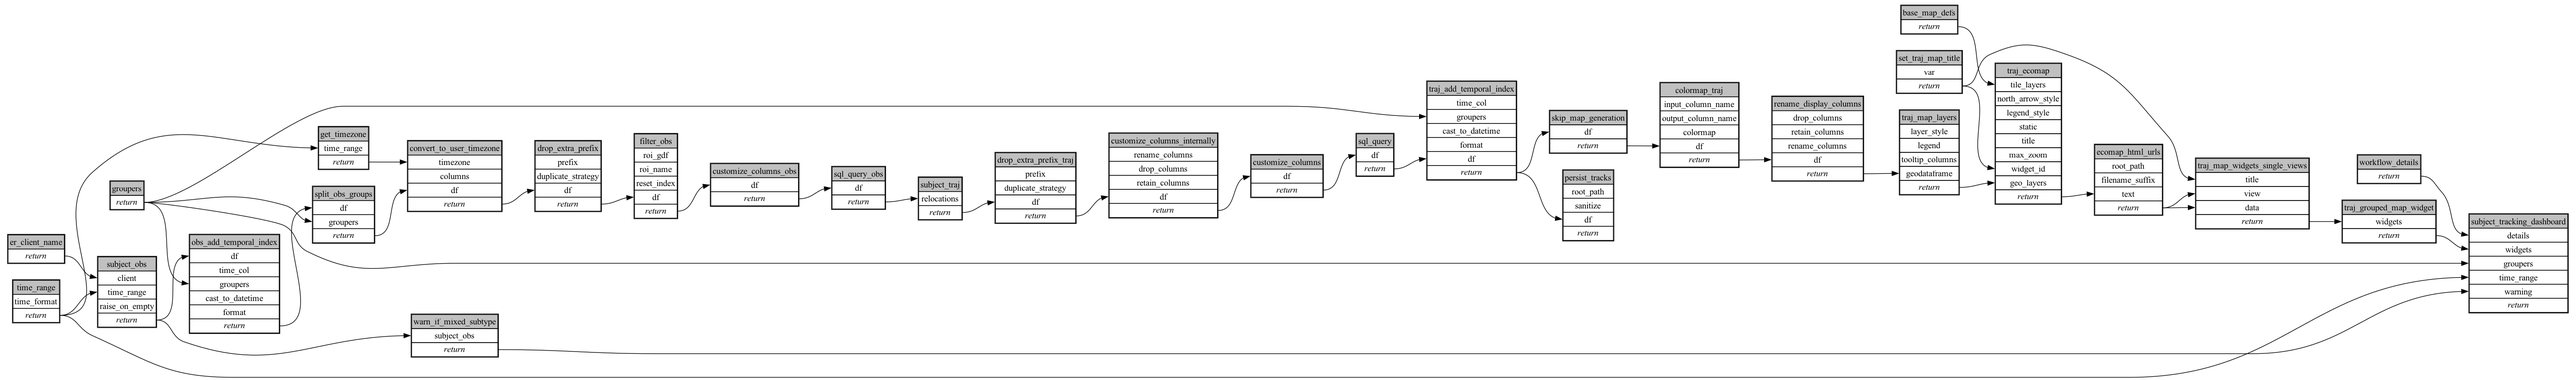
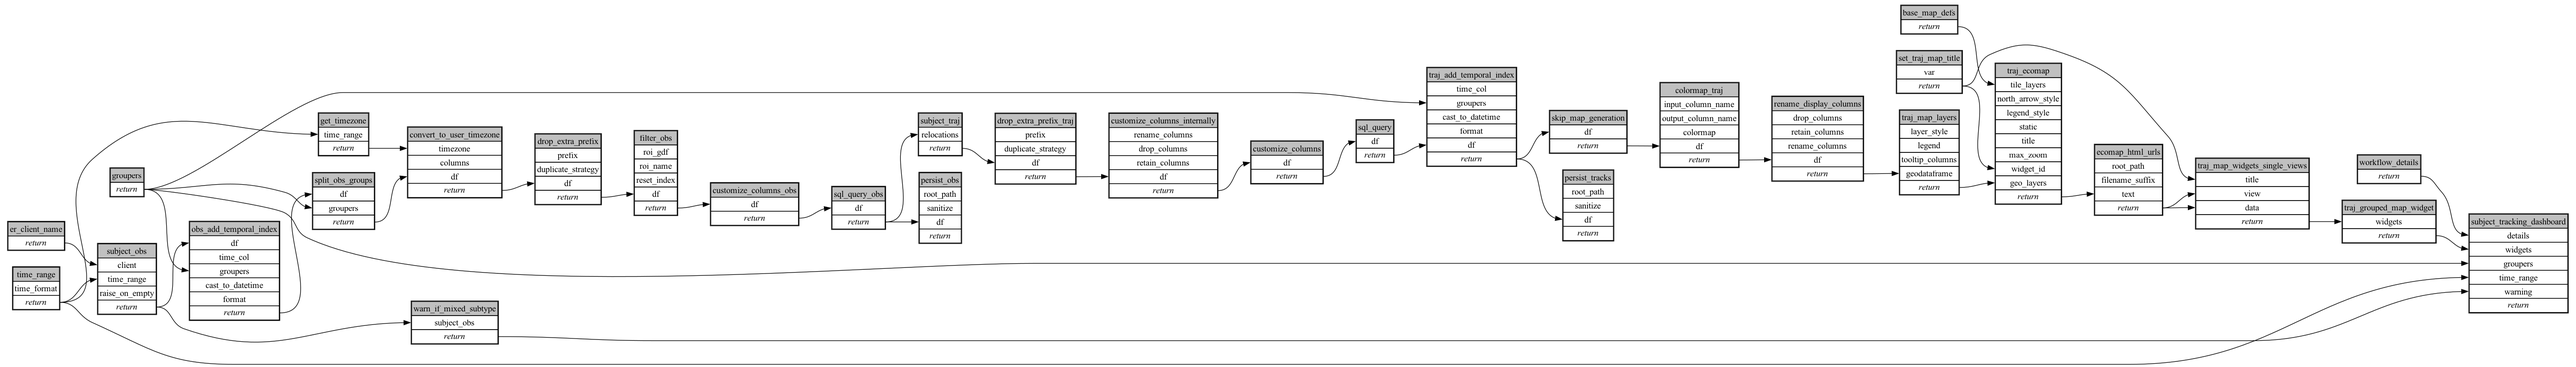
persist relocs

diff --git a/ecoscope-workflows-download-subjects-workflow/ecoscope_workflows_download_subjects_workflow/formdata.py b/ecoscope-workflows-download-subjects-workflow/ecoscope_workflows_download_subjects_workflow/formdata.py
@@ -59,6 +59,26 @@ class SqlQueryObs(BaseModel):
     )
 
 
+class Filetype(str, Enum):
+    csv = "csv"
+    gpkg = "gpkg"
+    geoparquet = "geoparquet"
+
+
+class PersistObs(BaseModel):
+    model_config = ConfigDict(
+        extra="forbid",
+    )
+    filetypes: Optional[List[Filetype]] = Field(
+        ["csv"], description="The output format", title="Filetypes"
+    )
+    filename_prefix: Optional[str] = Field(
+        "subject_observations",
+        description="            Optional filename prefix to persist text to within the `root_path`.\n            We will always add a suffix based on the dataframe content hash to avoid duplicates.\n            ",
+        title="Filename Prefix",
+    )
+
+
 class SqlQuery(BaseModel):
     model_config = ConfigDict(
         extra="forbid",
@@ -73,12 +93,6 @@ class SqlQuery(BaseModel):
         description="Optional list of column names to include in the SQL query context. If specified, only these columns will be available in the 'df' table for querying. Use this to exclude columns with unsupported data types (list, dict) that cannot be stored in SQLite. If not specified, all columns are included.",
         title="Columns",
     )
-
-
-class Filetype(str, Enum):
-    csv = "csv"
-    gpkg = "gpkg"
-    geoparquet = "geoparquet"
 
 
 class PersistTracks(BaseModel):
@@ -360,7 +374,7 @@ class Groupers(BaseModel):
     )
     groupers: Optional[List[Union[ValueGrouper, TemporalGrouper]]] = Field(
         None,
-        description="            Specify how the data should be grouped to create the views for your dashboard.\n            This field is optional; if left blank, all the data will appear in a single view.\n            ",
+        description="            Specify how the data should be grouped to create the views for your dashboard or persisted data.\n            This field is optional; if left blank, all the data will appear in a single view.\n            ",
         title=" ",
     )
 
@@ -481,12 +495,15 @@ class FormData(BaseModel):
     Process_Observation_Relocations: Optional[ProcessObservationRelocations] = Field(
         None,
         alias="Process Observation Relocations",
-        description="Process each group of observations by applying timezone conversion, filters, coordinate filters, column mappings, and SQL queries.",
+        description="Process each group of observations by applying coordinate filters, column mappings, and SQL queries.",
+    )
+    persist_obs: Optional[PersistObs] = Field(
+        None, title="Persist Observation Relocations"
     )
     Transform_to_Trajectories: Optional[TransformToTrajectories] = Field(
         None,
         alias="Transform to Trajectories",
-        description="Convert filtered observations to trajectories and apply custom processing, SQL queries, and column mappings.",
+        description="Convert filtered observations to trajectories and apply segment processing, SQL queries, and column mappings.",
     )
     persist_tracks: Optional[PersistTracks] = Field(
         None, title="Persist Subject Trajectories"

diff --git a/ecoscope-workflows-download-subjects-workflow/ecoscope_workflows_download_subjects_workflow/params.py b/ecoscope-workflows-download-subjects-workflow/ecoscope_workflows_download_subjects_workflow/params.py
@@ -55,6 +55,26 @@ class SqlQueryObs(BaseModel):
     )
 
 
+class Filetype(str, Enum):
+    csv = "csv"
+    gpkg = "gpkg"
+    geoparquet = "geoparquet"
+
+
+class PersistObs(BaseModel):
+    model_config = ConfigDict(
+        extra="forbid",
+    )
+    filetypes: Optional[List[Filetype]] = Field(
+        ["csv"], description="The output format", title="Filetypes"
+    )
+    filename_prefix: Optional[str] = Field(
+        None,
+        description="            Optional filename prefix to persist text to within the `root_path`.\n            We will always add a suffix based on the dataframe content hash to avoid duplicates.\n            ",
+        title="Filename Prefix",
+    )
+
+
 class SqlQuery(BaseModel):
     model_config = ConfigDict(
         extra="forbid",
@@ -69,12 +89,6 @@ class SqlQuery(BaseModel):
         description="Optional list of column names to include in the SQL query context. If specified, only these columns will be available in the 'df' table for querying. Use this to exclude columns with unsupported data types (list, dict) that cannot be stored in SQLite. If not specified, all columns are included.",
         title="Columns",
     )
-
-
-class Filetype(str, Enum):
-    csv = "csv"
-    gpkg = "gpkg"
-    geoparquet = "geoparquet"
 
 
 class PersistTracks(BaseModel):
@@ -349,7 +363,7 @@ class Groupers(BaseModel):
     )
     groupers: Optional[List[Union[ValueGrouper, TemporalGrouper]]] = Field(
         None,
-        description="            Specify how the data should be grouped to create the views for your dashboard.\n            This field is optional; if left blank, all the data will appear in a single view.\n            ",
+        description="            Specify how the data should be grouped to create the views for your dashboard or persisted data.\n            This field is optional; if left blank, all the data will appear in a single view.\n            ",
         title=" ",
     )
 
@@ -448,6 +462,9 @@ class Params(BaseModel):
         None, title="Process Columns"
     )
     sql_query_obs: Optional[SqlQueryObs] = Field(None, title="Apply SQL Query")
+    persist_obs: Optional[PersistObs] = Field(
+        None, title="Persist Observation Relocations"
+    )
     subject_traj: Optional[SubjectTraj] = Field(None, title="Trajectory Segment Filter")
     customize_columns: Optional[CustomizeColumns] = Field(None, title="Process Columns")
     sql_query: Optional[SqlQuery] = Field(None, title="Apply SQL Query")

diff --git a/ecoscope-workflows-download-subjects-workflow/ecoscope_workflows_download_subjects_workflow/dags/run_async_mock_io.py b/ecoscope-workflows-download-subjects-workflow/ecoscope_workflows_download_subjects_workflow/dags/run_async_mock_io.py
@@ -103,6 +103,7 @@ def main(params: Params):
         "filter_obs": ["drop_extra_prefix"],
         "customize_columns_obs": ["filter_obs"],
         "sql_query_obs": ["customize_columns_obs"],
+        "persist_obs": ["sql_query_obs"],
         "subject_traj": ["sql_query_obs"],
         "drop_extra_prefix_traj": ["subject_traj"],
         "customize_columns_internally": ["drop_extra_prefix_traj"],
@@ -411,6 +412,29 @@ def main(params: Params):
             kwargs={
                 "argnames": ["df"],
                 "argvalues": DependsOn("customize_columns_obs"),
+            },
+        ),
+        "persist_obs": Node(
+            async_task=persist_df_wrapper.validate()
+            .set_task_instance_id("persist_obs")
+            .handle_errors()
+            .with_tracing()
+            .skipif(
+                conditions=[
+                    never,
+                ],
+                unpack_depth=1,
+            )
+            .set_executor("lithops"),
+            partial={
+                "root_path": os.environ["ECOSCOPE_WORKFLOWS_RESULTS"],
+                "sanitize": True,
+            }
+            | (params_dict.get("persist_obs") or {}),
+            method="mapvalues",
+            kwargs={
+                "argnames": ["df"],
+                "argvalues": DependsOn("sql_query_obs"),
             },
         ),
         "subject_traj": Node(

diff --git a/ecoscope-workflows-download-subjects-workflow/ecoscope_workflows_download_subjects_workflow/dags/run_async.py b/ecoscope-workflows-download-subjects-workflow/ecoscope_workflows_download_subjects_workflow/dags/run_async.py
@@ -89,6 +89,7 @@ def main(params: Params):
         "filter_obs": ["drop_extra_prefix"],
         "customize_columns_obs": ["filter_obs"],
         "sql_query_obs": ["customize_columns_obs"],
+        "persist_obs": ["sql_query_obs"],
         "subject_traj": ["sql_query_obs"],
         "drop_extra_prefix_traj": ["subject_traj"],
         "customize_columns_internally": ["drop_extra_prefix_traj"],
@@ -397,6 +398,29 @@ def main(params: Params):
             kwargs={
                 "argnames": ["df"],
                 "argvalues": DependsOn("customize_columns_obs"),
+            },
+        ),
+        "persist_obs": Node(
+            async_task=persist_df_wrapper.validate()
+            .set_task_instance_id("persist_obs")
+            .handle_errors()
+            .with_tracing()
+            .skipif(
+                conditions=[
+                    never,
+                ],
+                unpack_depth=1,
+            )
+            .set_executor("lithops"),
+            partial={
+                "root_path": os.environ["ECOSCOPE_WORKFLOWS_RESULTS"],
+                "sanitize": True,
+            }
+            | (params_dict.get("persist_obs") or {}),
+            method="mapvalues",
+            kwargs={
+                "argnames": ["df"],
+                "argvalues": DependsOn("sql_query_obs"),
             },
         ),
         "subject_traj": Node(

diff --git a/ecoscope-workflows-download-subjects-workflow/ecoscope_workflows_download_subjects_workflow/dags/run_sequential.py b/ecoscope-workflows-download-subjects-workflow/ecoscope_workflows_download_subjects_workflow/dags/run_sequential.py
@@ -329,6 +329,25 @@ def main(params: Params):
         .mapvalues(argnames=["df"], argvalues=customize_columns_obs)
     )
 
+    persist_obs = (
+        persist_df_wrapper.validate()
+        .set_task_instance_id("persist_obs")
+        .handle_errors()
+        .with_tracing()
+        .skipif(
+            conditions=[
+                never,
+            ],
+            unpack_depth=1,
+        )
+        .partial(
+            root_path=os.environ["ECOSCOPE_WORKFLOWS_RESULTS"],
+            sanitize=True,
+            **(params_dict.get("persist_obs") or {}),
+        )
+        .mapvalues(argnames=["df"], argvalues=sql_query_obs)
+    )
+
     subject_traj = (
         relocations_to_trajectory.validate()
         .set_task_instance_id("subject_traj")

diff --git a/ecoscope-workflows-download-subjects-workflow/ecoscope_workflows_download_subjects_workflow/dags/run_sequential_mock_io.py b/ecoscope-workflows-download-subjects-workflow/ecoscope_workflows_download_subjects_workflow/dags/run_sequential_mock_io.py
@@ -343,6 +343,25 @@ def main(params: Params):
         .mapvalues(argnames=["df"], argvalues=customize_columns_obs)
     )
 
+    persist_obs = (
+        persist_df_wrapper.validate()
+        .set_task_instance_id("persist_obs")
+        .handle_errors()
+        .with_tracing()
+        .skipif(
+            conditions=[
+                never,
+            ],
+            unpack_depth=1,
+        )
+        .partial(
+            root_path=os.environ["ECOSCOPE_WORKFLOWS_RESULTS"],
+            sanitize=True,
+            **(params_dict.get("persist_obs") or {}),
+        )
+        .mapvalues(argnames=["df"], argvalues=sql_query_obs)
+    )
+
     subject_traj = (
         relocations_to_trajectory.validate()
         .set_task_instance_id("subject_traj")

diff --git a/ecoscope-workflows-download-subjects-workflow/ecoscope_workflows_download_subjects_workflow/dags/jupytext.py b/ecoscope-workflows-download-subjects-workflow/ecoscope_workflows_download_subjects_workflow/dags/jupytext.py
@@ -509,6 +509,41 @@ sql_query_obs = (
 
 
 # %% [markdown]
+# ## Persist Observation Relocations
+
+# %%
+# parameters
+
+persist_obs_params = dict(
+    filename=...,
+    filetypes=...,
+    filename_prefix=...,
+)
+
+# %%
+# call the task
+
+
+persist_obs = (
+    persist_df_wrapper.set_task_instance_id("persist_obs")
+    .handle_errors()
+    .with_tracing()
+    .skipif(
+        conditions=[
+            never,
+        ],
+        unpack_depth=1,
+    )
+    .partial(
+        root_path=os.environ["ECOSCOPE_WORKFLOWS_RESULTS"],
+        sanitize=True,
+        **persist_obs_params,
+    )
+    .mapvalues(argnames=["df"], argvalues=sql_query_obs)
+)
+
+
+# %% [markdown]
 # ## Trajectory Segment Filter
 
 # %%

diff --git a/ecoscope-workflows-download-subjects-workflow/README.md b/ecoscope-workflows-download-subjects-workflow/README.md
@@ -5,8 +5,8 @@
 
 ```yaml
 # fingerprint:
-artifacts_sha256_basic: b57322aab8d6aaa2114a2399ea25624fc518ce3fa242b20433d12226fc553dff
-artifacts_sha256_strict: 19d1a4cf8e8a1405303a3db6d75b66324575f948b80e3b60c906dce60f1dc3d4
+artifacts_sha256_basic: ed22f8bc9da7cedf47dcb525879785f9a34846e395dea61dbc709ec252d8327e
+artifacts_sha256_strict: 48055552fc6121bd34b26ce9d29fed3a33026675827ee93756f7249c3c868d22
 installed_requirements:
 - channel: https://repo.prefix.dev/ecoscope-workflows/
   name: ecoscope-workflows-core
@@ -17,8 +17,8 @@ installed_requirements:
 - channel: https://repo.prefix.dev/ecoscope-workflows-custom/
   name: ecoscope-workflows-ext-custom
   version: {version: ==0.0.14.dev0+g3f451d57d.d20260110}
-params_sha256: d1326ad61f04b24822d6cc33822f82f074ab8535c100686fd659b80717f473c2
-spec_sha256: 4e05cfe431fb95e76224de9ba0880b6547bae24c82c7d0248a2d868392a05e53
+params_sha256: 83b46d7fcc758adbc4bac591dafe6fd1ba4660ebe6131abbcbd8ceecbe0aedf7
+spec_sha256: b2bc8be3d18e304f2708c6f021f05cd9650ad0b8cca84954c7c40e5d1f85584a
 
 ```
 
